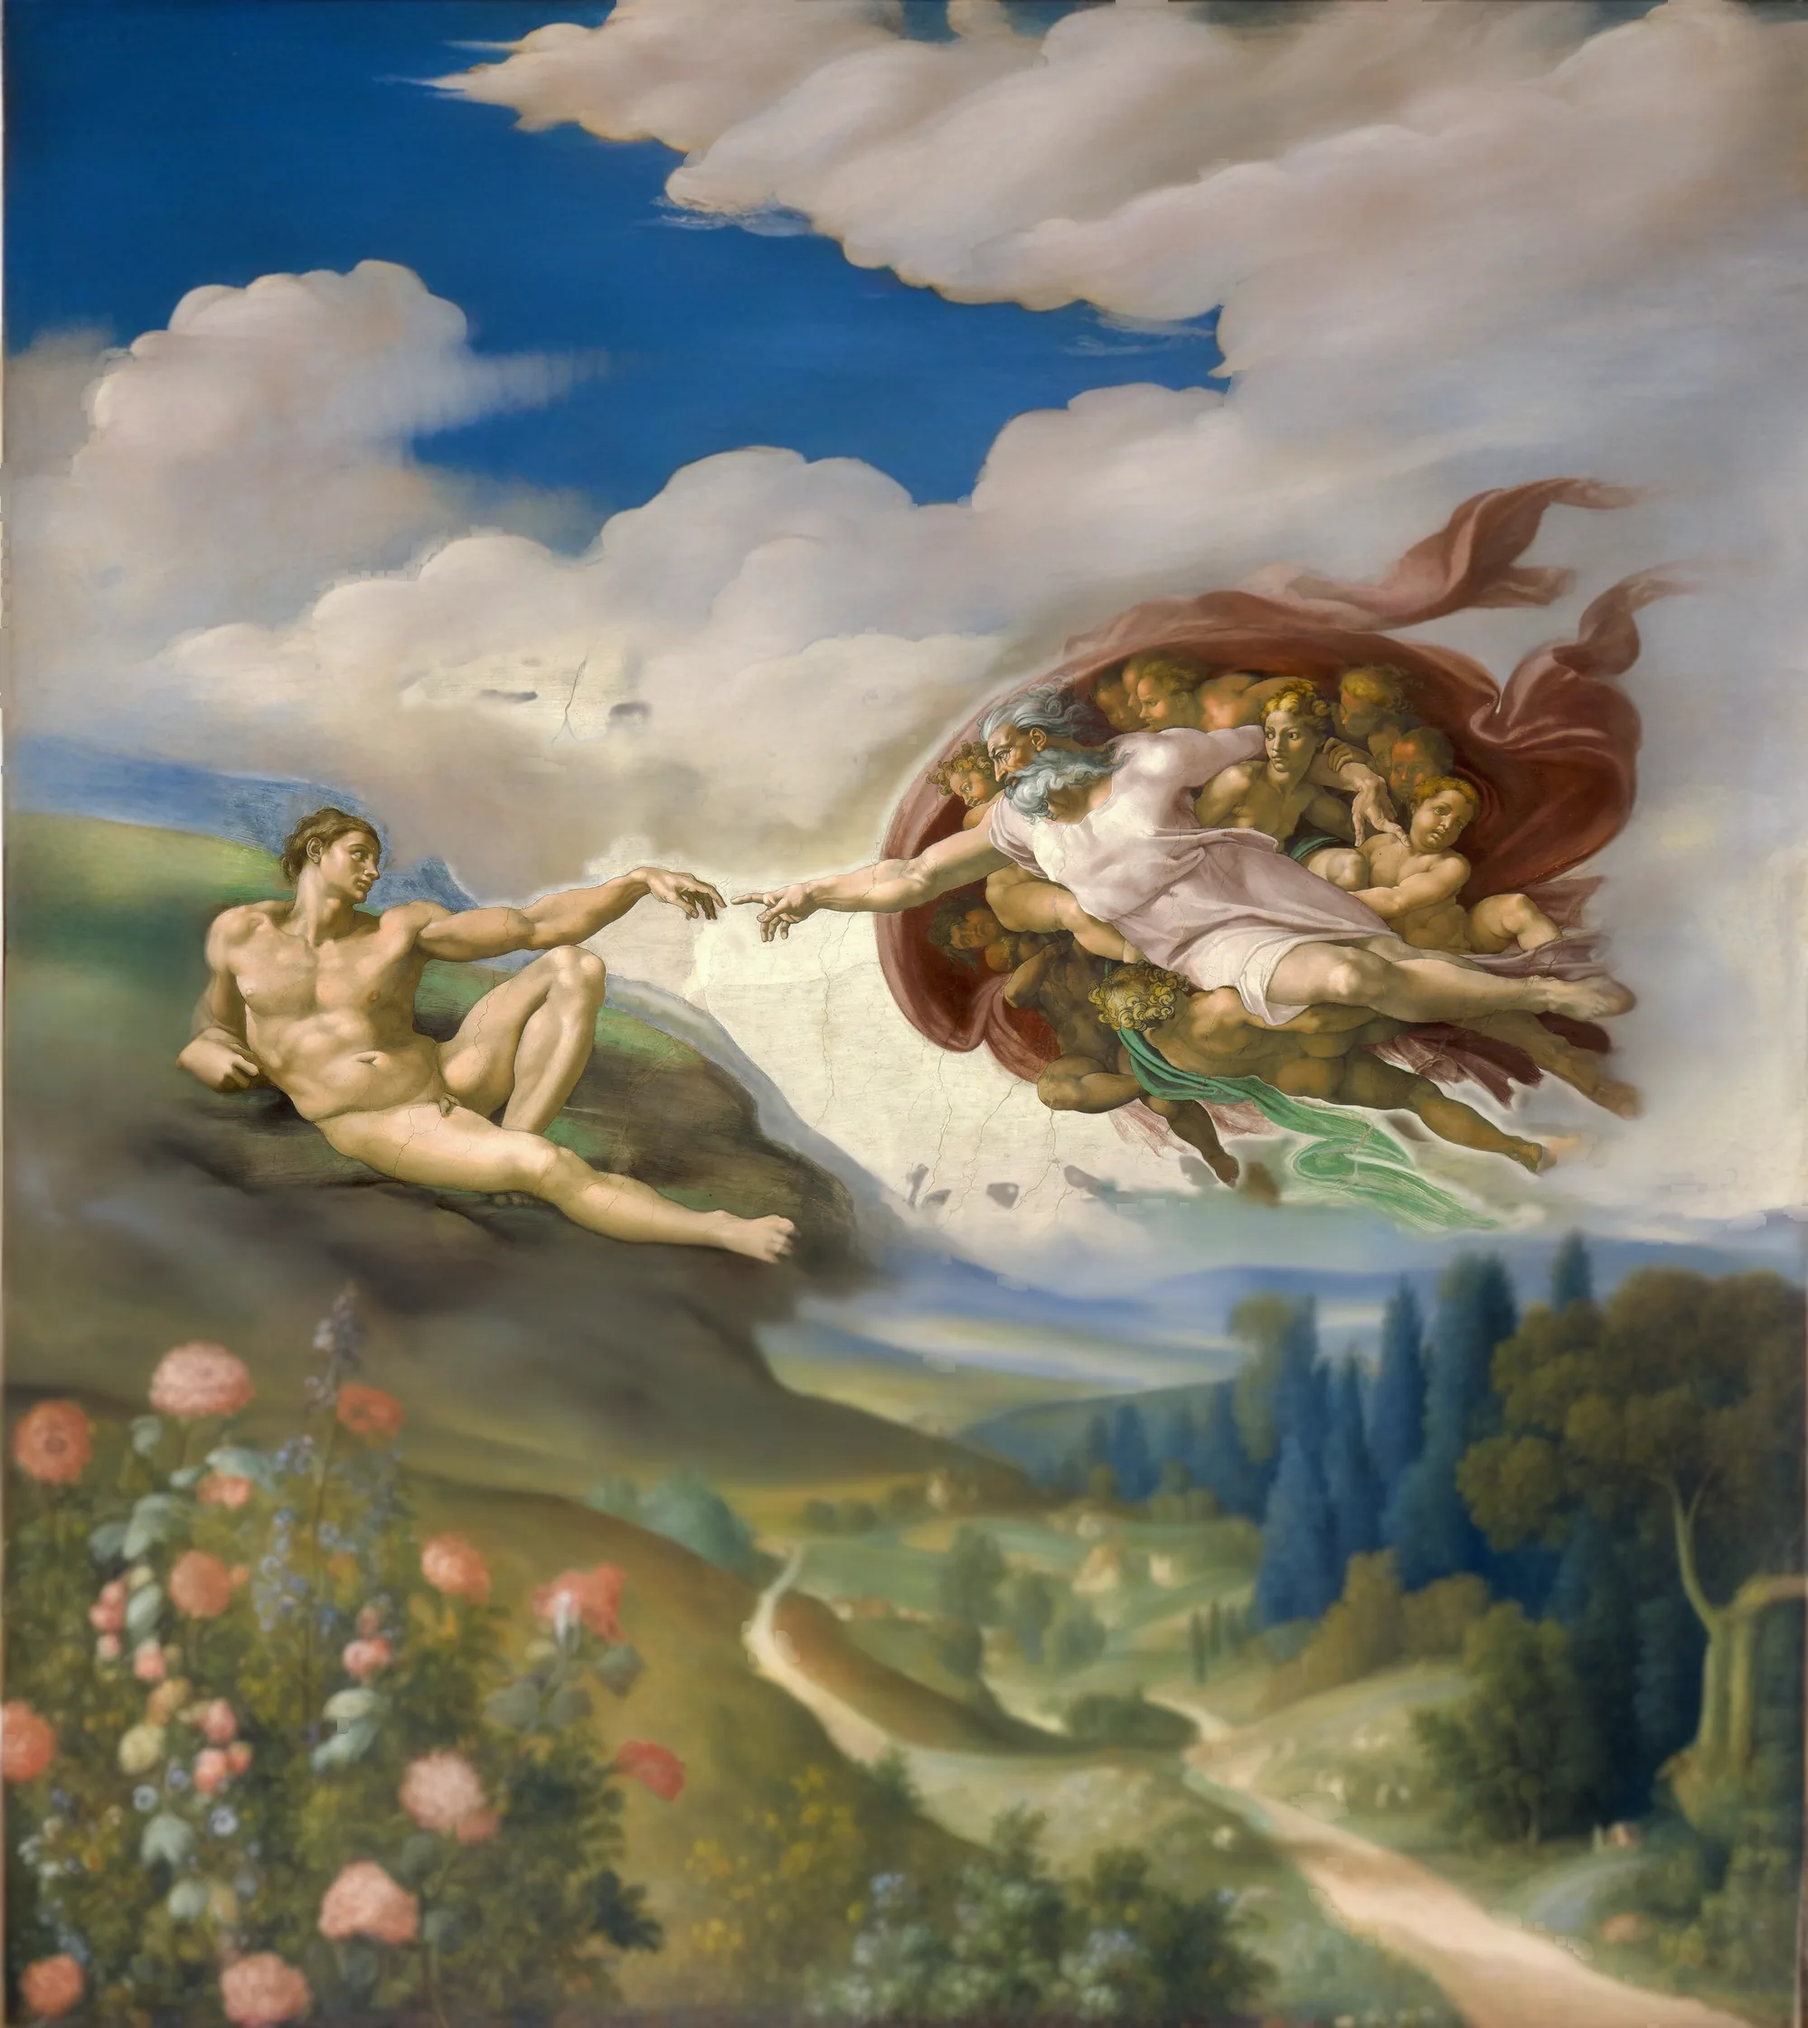
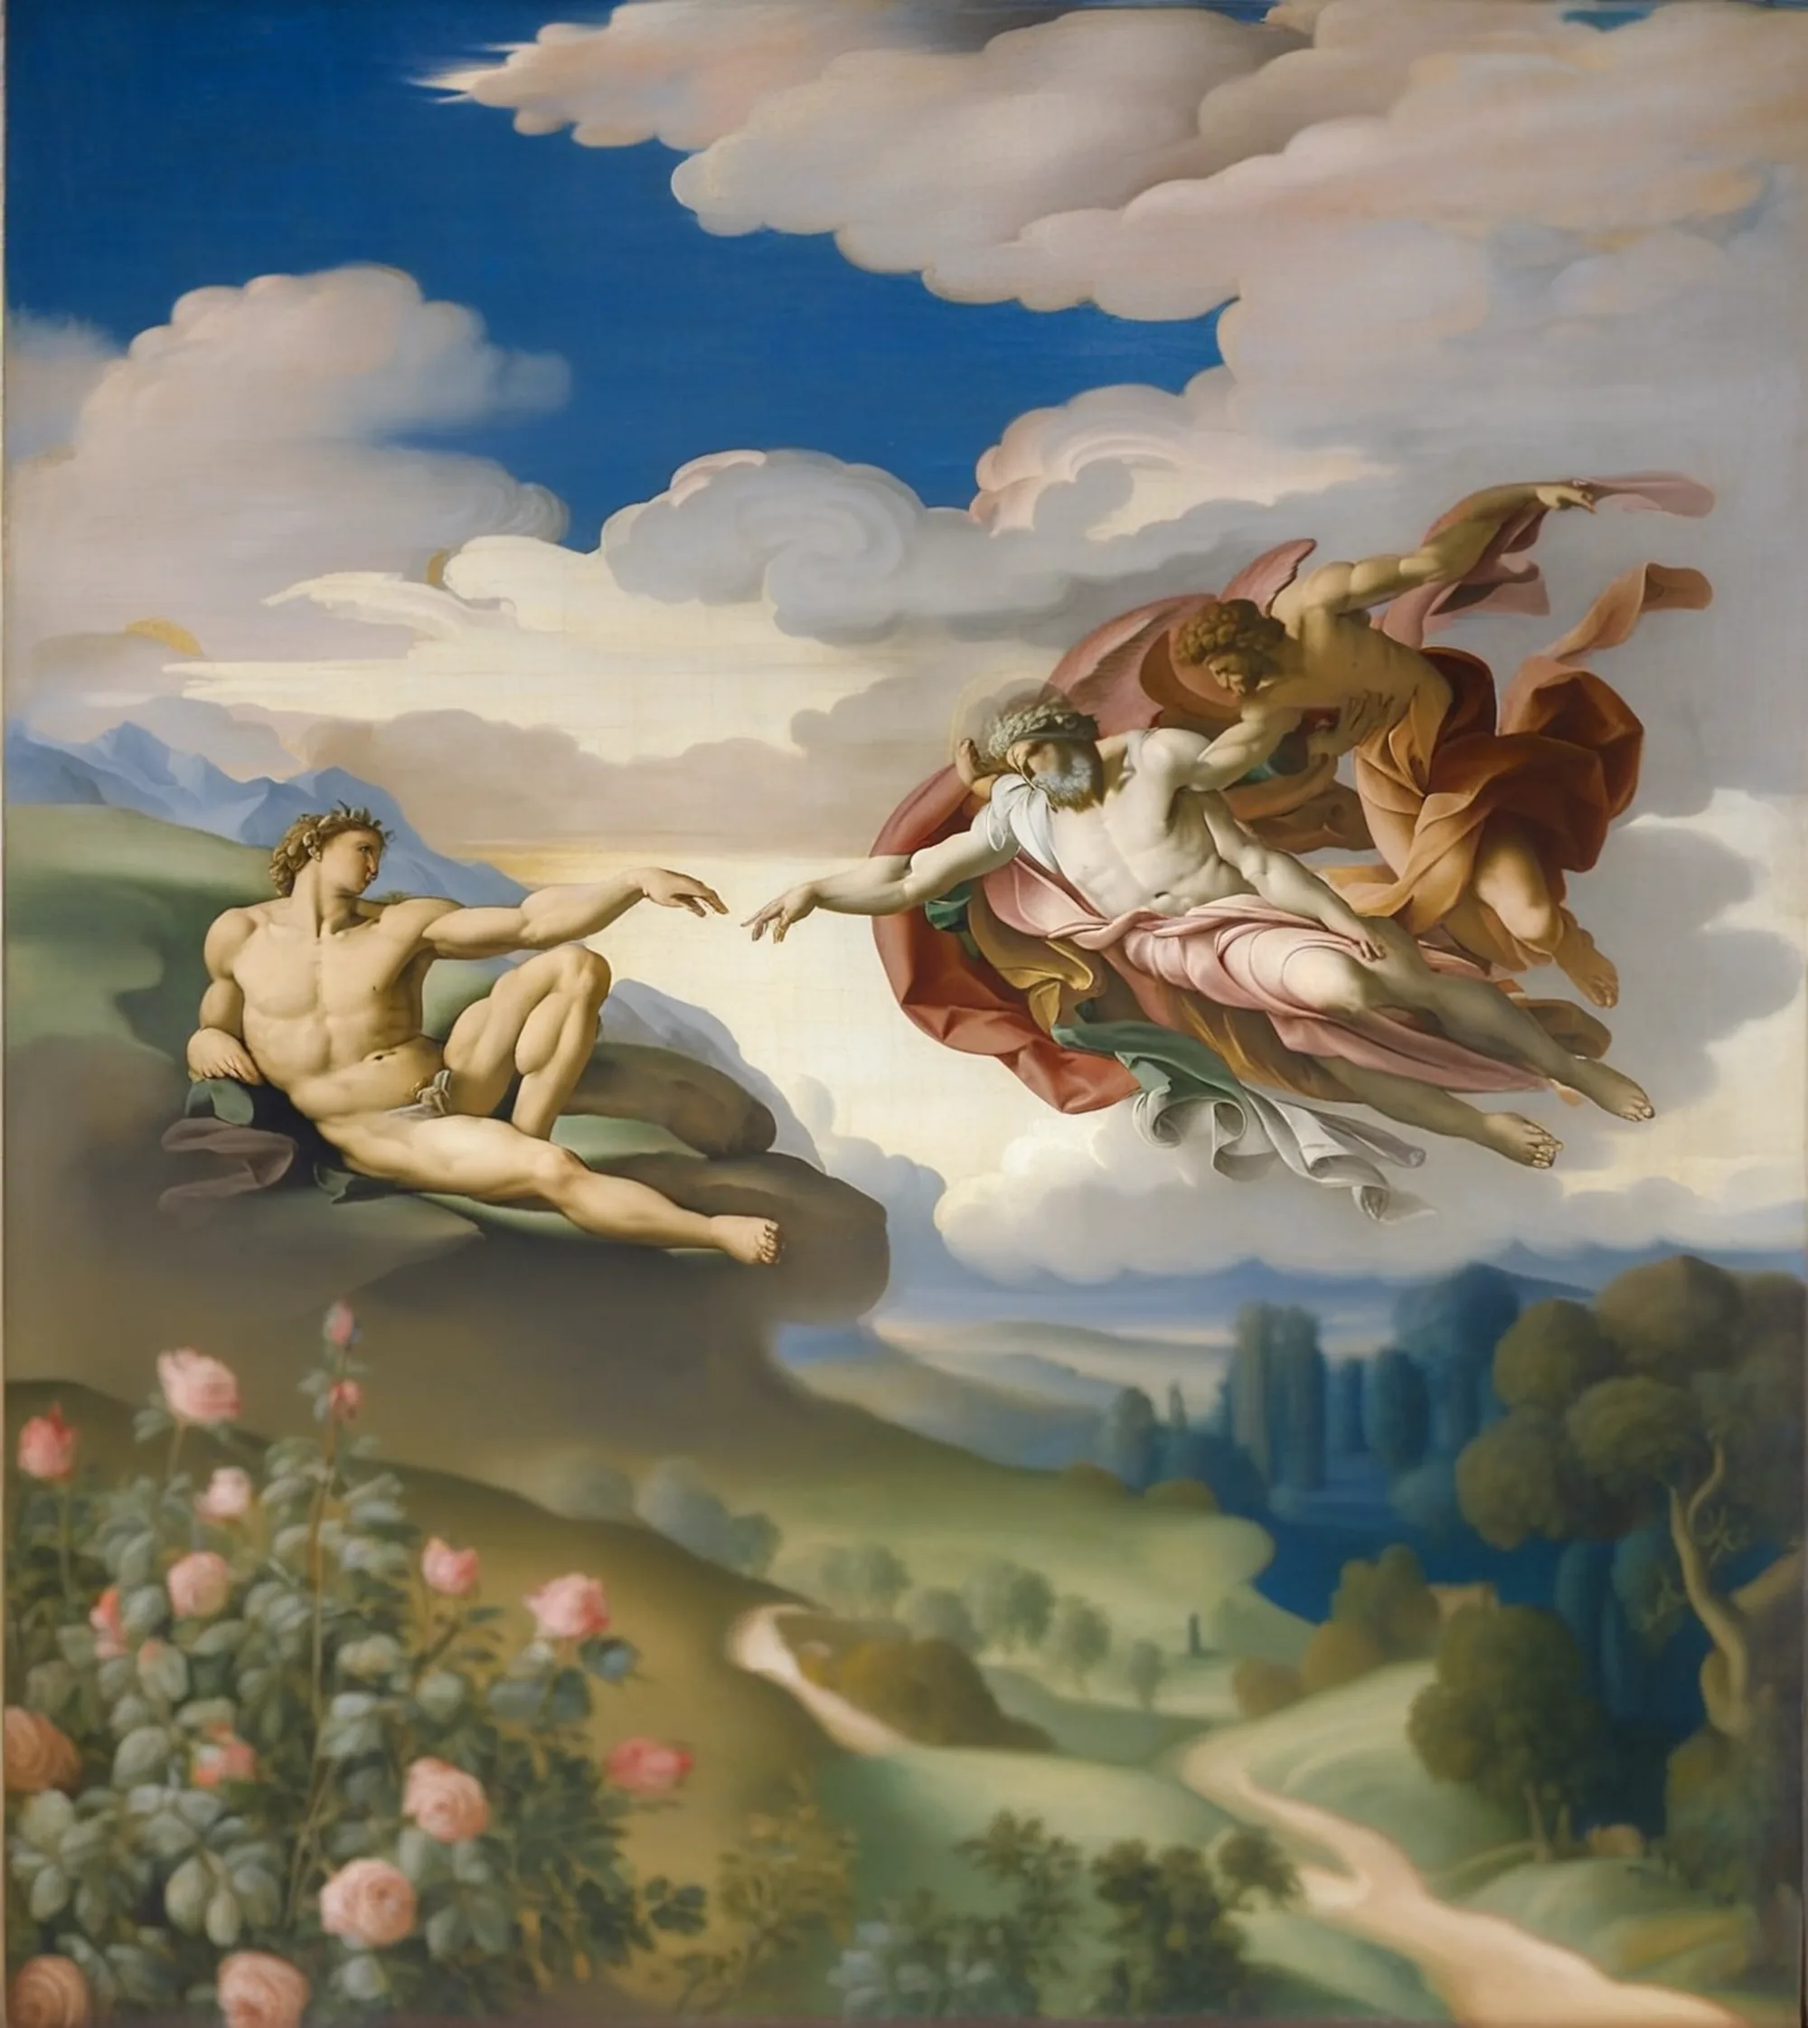
Day redrawn as one painting; a tall version for phones
The Creation of Adam repainted whole at low strength (tools/repaint.py)
so Michelangelo's composition holds - fingers almost touching - while
figures, sky and Eden share one hand. Phones get a tall version
(tools/tallen.py: sky above and Eden below, painting kept exactly; a
painted frame cropped and a stray cherub painted out), so Adam and God
are both whole on a phone.

diff --git a/public/main.js b/public/main.js
@@ -45,8 +45,8 @@ const load = src => new Promise((res, rej) => { const i = new Image(); i.onload 
 // each picture is one painting grown past Michelangelo's frame; wide and tall screens are cut from it around its focus
 const shape = innerWidth / innerHeight >= .8 ? 'wide' : 'tall';
 if (!gl) { root.classList.add('no-gl'); ready(); }
-else fetch('/img/scene.json?v=1791852190').then(r => r.json()).then(meta =>
-  Promise.all([shape === 'wide' ? 'night-wide' : 'night', shape === 'wide' ? 'night-wide-flow' : 'night-flow', 'day', 'day-flow'].map(n => load(`/img/${n}.webp?v=1791852190`)))
+else fetch('/img/scene.json?v=1791855666').then(r => r.json()).then(meta =>
+  Promise.all([shape === 'wide' ? 'night-wide' : 'night', shape === 'wide' ? 'night-wide-flow' : 'night-flow', shape === 'wide' ? 'day' : 'day-tall', shape === 'wide' ? 'day-flow' : 'day-tall-flow'].map(n => load(`/img/${n}.webp?v=1791855666`)))
     .then(ims => paint(gl, ims, meta[shape])))
   .catch(e => { console.error(String(e && e.message || e)); root.classList.add('no-gl'); ready(); });   // log, then fall back
 

diff --git a/public/index.html b/public/index.html
@@ -19,7 +19,7 @@
 <link rel="preconnect" href="https://fonts.googleapis.com">
 <link rel="preconnect" href="https://fonts.gstatic.com" crossorigin>
 <link rel="stylesheet" href="https://fonts.googleapis.com/css2?family=Cinzel:wght@400;500&family=Cormorant+Garamond:ital,wght@0,300;0,400;1,300;1,400&display=swap">
-<link rel="stylesheet" href="/style.css?v=1791852190">
+<link rel="stylesheet" href="/style.css?v=1791855666">
 <script>document.documentElement.classList.add('js')</script>
 </head>
 <body>
@@ -74,6 +74,6 @@
 
 
 <noscript><style>.reveal,.reveal-words,.display .line>span{opacity:1!important;transform:none!important}</style></noscript>
-<script type="module" src="/main.js?v=1791852190"></script>
+<script type="module" src="/main.js?v=1791855666"></script>
 </body>
 </html>

diff --git a/tools/tallen.py b/tools/tallen.py
@@ -1,0 +1,38 @@
+# Makes a tall version of a painting for phones: the painting kept exactly, the sky continued above and the
+# land below in one pass, colour-matched column band by column band, then a light pass across the seams.
+import sys, gc, torch, numpy as np
+from PIL import Image, ImageFilter
+from diffusers import StableDiffusionXLInpaintPipeline
+src, out, seed, top, bottom = sys.argv[1], sys.argv[2], int(sys.argv[3]), int(sys.argv[4]), int(sys.argv[5])
+im = Image.open(src).convert('RGB'); w, h = im.size; H = h + top + bottom; oy = top
+a = np.asarray(im, np.float32); canvas = np.zeros((H, w, 3), np.float32); canvas[oy:oy + h] = a
+canvas[:oy] = a[:1]; canvas[oy + h:] = a[-1:]
+pre = Image.fromarray(canvas.astype(np.uint8)).filter(ImageFilter.GaussianBlur(30)); pre.paste(im, (0, oy))
+known = np.zeros((H, w), np.uint8); known[oy:oy + h] = 255
+mask = Image.fromarray(255 - known).filter(ImageFilter.MaxFilter(41)).filter(ImageFilter.GaussianBlur(14))
+P = ("Renaissance oil painting in the manner of Michelangelo: above, a luminous blue morning sky with soft white and golden "
+     "clouds; below, the Garden of Eden in morning light, green meadows of roses and wildflowers, leafy trees and cypresses, "
+     "a winding path, rich harmonious colours, masterpiece")
+N = "people, figure, person, face, body, angel, animal, text, signature, frame, border, photo, blurry, seam, split image"
+pipe = StableDiffusionXLInpaintPipeline.from_pretrained("diffusers/stable-diffusion-xl-1.0-inpainting-0.1", torch_dtype=torch.float16, variant="fp16").to("mps")
+pipe.enable_attention_slicing(); pipe.vae.enable_tiling()
+sc = (1150 * 1150 / (w * H)) ** .5; gw, gh = round(w * sc / 8) * 8, round(H * sc / 8) * 8
+def run(img, m, st, sd):
+    r = pipe(prompt=P, negative_prompt=N, image=img.resize((gw, gh), Image.LANCZOS), mask_image=m.resize((gw, gh), Image.LANCZOS),
+             width=gw, height=gh, num_inference_steps=40, guidance_scale=7, strength=st, generator=torch.Generator("cpu").manual_seed(sd)).images[0]
+    gc.collect(); torch.mps.empty_cache(); return r.resize((w, H), Image.LANCZOS)
+g1 = np.asarray(run(pre, mask, 1.0, seed), np.float32)
+for x0 in range(0, w, 120):          # match each new band to the painting's colours in the same columns, near the seam
+    xs = slice(x0, min(w, x0 + 240))
+    for ys, ref in ((slice(0, oy), a[:260]), (slice(oy + h, H), a[-260:])):
+        rmu, rsd = ref[:, xs].reshape(-1, 3).mean(0), ref[:, xs].reshape(-1, 3).std(0) + 1e-3
+        blk = g1[ys, xs]; mu, sd = blk.reshape(-1, 3).mean(0), blk.reshape(-1, 3).std(0) + 1e-3
+        g1[ys, x0:min(w, x0 + 120)] = (g1[ys, x0:min(w, x0 + 120)] - mu) / sd * (rsd * .7 + sd * .3) + rmu
+g1 = Image.fromarray(np.clip(g1, 0, 255).astype(np.uint8))
+step = Image.composite(g1, pre, mask)
+band = np.zeros((H, w), np.uint8); band[oy - 90:oy + 90] = 255; band[oy + h - 90:oy + h + 90] = 255
+band = Image.fromarray(band).filter(ImageFilter.GaussianBlur(30))
+g2 = run(step, Image.fromarray(np.maximum(np.asarray(band), np.asarray(mask)).astype(np.uint8)), .5, seed + 1)
+keep = Image.fromarray(known).filter(ImageFilter.MinFilter(121)).filter(ImageFilter.GaussianBlur(25))
+g2.paste(Image.composite(im, g2.crop((0, oy, w, oy + h)), keep.crop((0, oy, w, oy + h))), (0, oy))
+g2.save(out); print('saved', out, g2.size, 'painting at', oy, flush=True)

diff --git a/tools/cherub.py b/tools/cherub.py
@@ -1,0 +1,16 @@
+import sys, gc, torch, numpy as np
+from PIL import Image, ImageDraw, ImageFilter
+from diffusers import StableDiffusionXLInpaintPipeline
+img = Image.open('aiv/day-tall-2.png').convert('RGB').crop((14, 300, 1986, 3620))   # inside the painted frame, with margin
+W, H = img.size
+cx, cy = 1437 - 14, 683 - 300
+m = Image.new('L', (W, H), 0); ImageDraw.Draw(m).ellipse([cx - 140, cy - 90, cx + 140, cy + 90], fill=255); m = m.filter(ImageFilter.GaussianBlur(14))
+x0, y0 = max(0, cx - 512), max(0, cy - 512)
+crop = img.crop((x0, y0, x0 + 1024, y0 + 1024)); mc = m.crop((x0, y0, x0 + 1024, y0 + 1024))
+pipe = StableDiffusionXLInpaintPipeline.from_pretrained("diffusers/stable-diffusion-xl-1.0-inpainting-0.1", torch_dtype=torch.float16, variant="fp16").to("mps")
+pipe.enable_attention_slicing()
+r = pipe(prompt="soft white and golden clouds in a luminous blue sky, Renaissance oil painting", negative_prompt="cherub, angel, figure, person, bird",
+         image=crop, mask_image=mc, width=1024, height=1024, num_inference_steps=36, guidance_scale=7, strength=.99,
+         generator=torch.Generator("cpu").manual_seed(3)).images[0]
+img.paste(r, (x0, y0), mc); img.save('aiv/day-tall-final.png')
+img.crop((cx - 300, cy - 200, cx + 300, cy + 200)).save('aiv/cherub-check.jpg'); print('ok', img.size)
